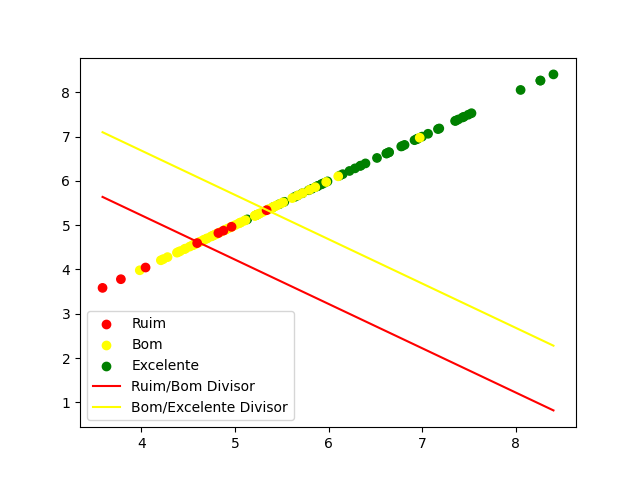
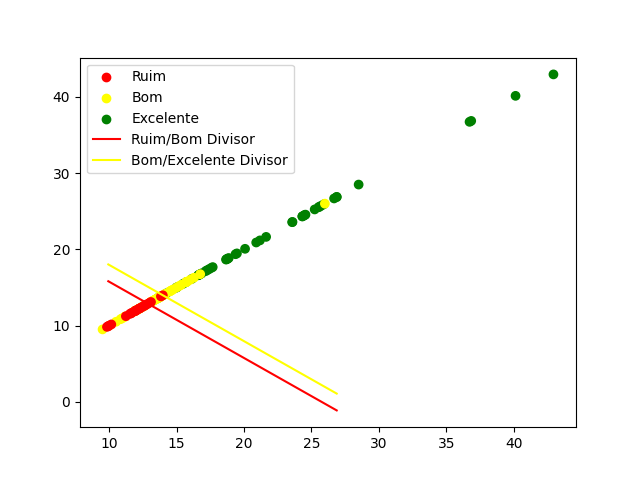
update

diff --git a/Carlos-SVMClassifier/SVMClassifier.py b/Carlos-SVMClassifier/SVMClassifier.py
@@ -57,17 +57,17 @@ def ANC(image,L1,L2):#Artificial Noise Comparison
 	return rmse(image,cv2.GaussianBlur(image,(L1*2+1,L1*2+1),0))
 
 def metric1(image):
-	#return variance_of_laplacian(image)
+	return variance_of_laplacian(image)
 	#return eme(image,20,20)
 	#return emee(image,50,50)
 	#return standardDesv(image,10,10)
-	return ANC(image,20,20)
+	#return ANC(image,20,20)
 def metric2(image):
-	#return variance_of_laplacian(image)
+	return variance_of_laplacian(image)
 	#return eme(image,20,20)
 	#return emee(image,50,50)
 	#return standardDesv(image,10,10)
-	return ANC(image,20,20)
+	#return ANC(image,20,20)
 
 def SVMClassifier():
 	title='Novo dataset'
@@ -75,7 +75,7 @@ def SVMClassifier():
 	
 	#pathDatabase=os.getcwd()+'\\organizacao_original\\Cam 077.3'
 	
-	pathDatabase=os.getcwd()+'\\organizacao_original\\Cam 124.1'
+	pathDatabase=os.getcwd()+'\\organizacao_original'
 
 	#pathDatabase=os.getcwd()+'\\organizacao_original\\Cam 321'
 
@@ -122,7 +122,7 @@ def SVMClassifier():
 			parameter=[metric1(img),metric2(img)]
 			parameters_excelente.append(parameter)
 		else:
-			print('Empty frame')
+			print(path)
 
 	for path in list_bom:
 		img=cv2.imread(path)
@@ -130,7 +130,7 @@ def SVMClassifier():
 			parameter=[metric1(img),metric2(img)]
 			parameters_bom.append(parameter)
 		else:
-			print('Empty frame')
+			print(path)
 
 	for path in list_ruim:
 		img=cv2.imread(path)
@@ -138,14 +138,12 @@ def SVMClassifier():
 			parameter=[metric1(img),metric2(img)]
 			parameters_ruim.append(parameter)
 		else:
-			print('Empty frame')
+			print(path)
 		'''
 	for path in list_pessimo:
 		img=cv2.imread(path)
 		parameter=[metric1(img),metric2(img)]
 		parameters_pessimo.append(parameter)'''
-
-	print(parameters_excelente)
 
 	X_excelente = np.asarray(parameters_excelente)
 	X_bom = np.asarray(parameters_bom)
@@ -184,7 +182,6 @@ def SVMClassifier():
 		clf.fit(X_train, y_train)
 		predictions = clf.predict(X_test)
 		sum=sum+accuracy_score(y_test, predictions)
-		print(predictions)
 		for i in range(0,len(predictions)):
 			tabela[int(predictions[i])][int(y_test[i])]=tabela[int(predictions[i])][int(y_test[i])]+1
 
